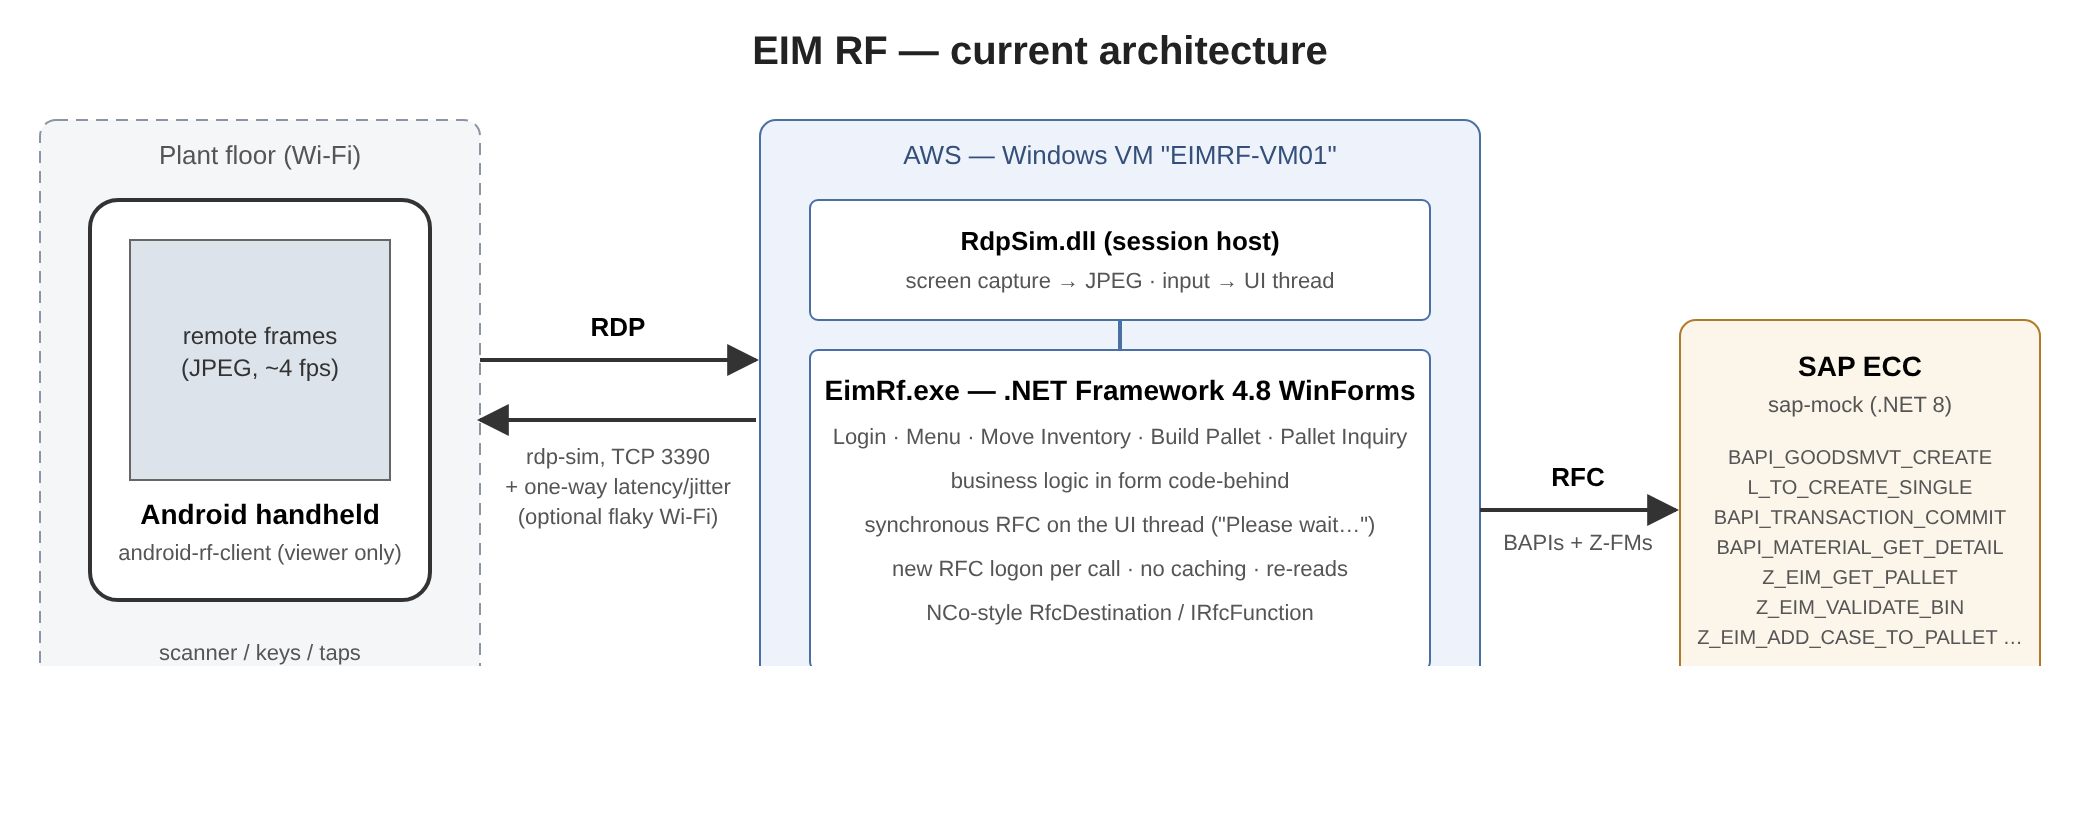
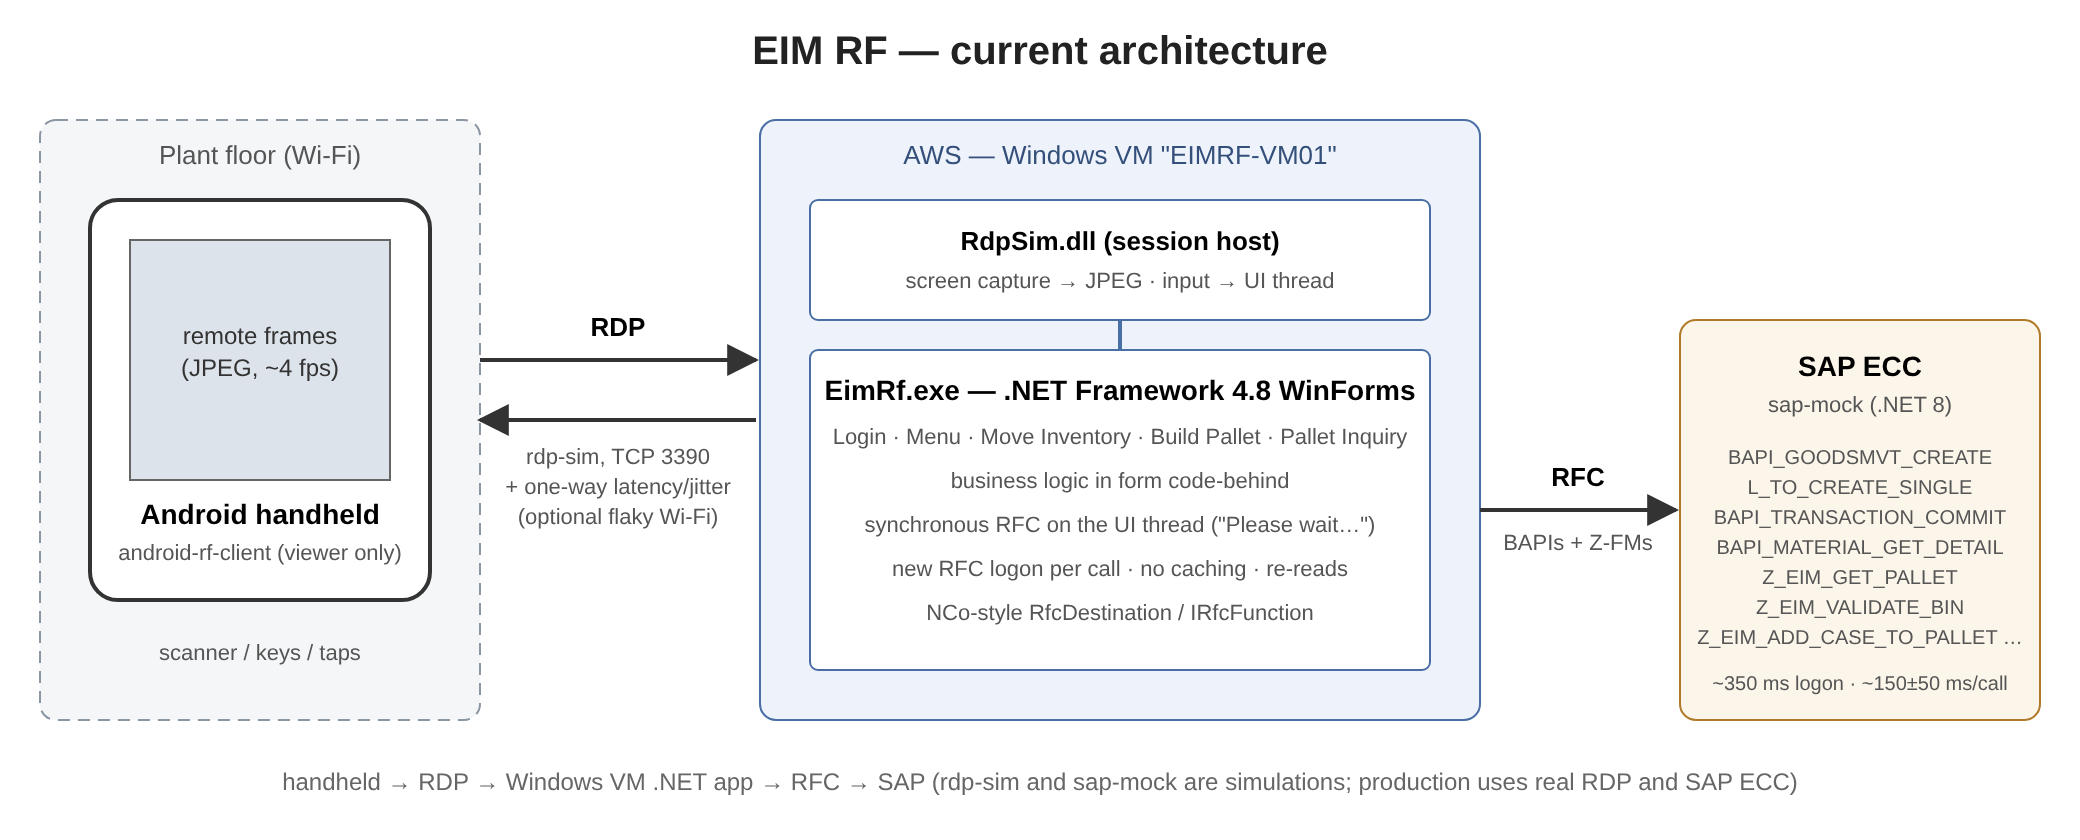
docs: 51d7cf9e full-height diagram, neutral AGENTS entry

Changed region(s): [[0.25, 0.8976, 0.8438, 0.9595], [0.8125, 0.8048, 0.9688, 0.8357], [0.125, 0.9286, 0.2188, 0.9595]]

diff --git a/AGENTS.md b/AGENTS.md
@@ -820,8 +820,7 @@ per-package friction.
 
 ## Legacy RF handheld stack (`stacks/51d7cf9e`)
 
-A self-contained, pre-migration warehouse RF environment used for a
-modernization demo: a .NET Framework 4.8 WinForms RF app
+A self-contained legacy warehouse RF environment used for a demo: a .NET Framework 4.8 WinForms RF app
 (`legacy-windows`), a separate remote-session host that stands in for RDP
 (`rdp-sim`), a Kotlin Android thin client that only views the remote session
 (`android-rf-client`) and a .NET 8 SAP RFC mock with fictional seeded
